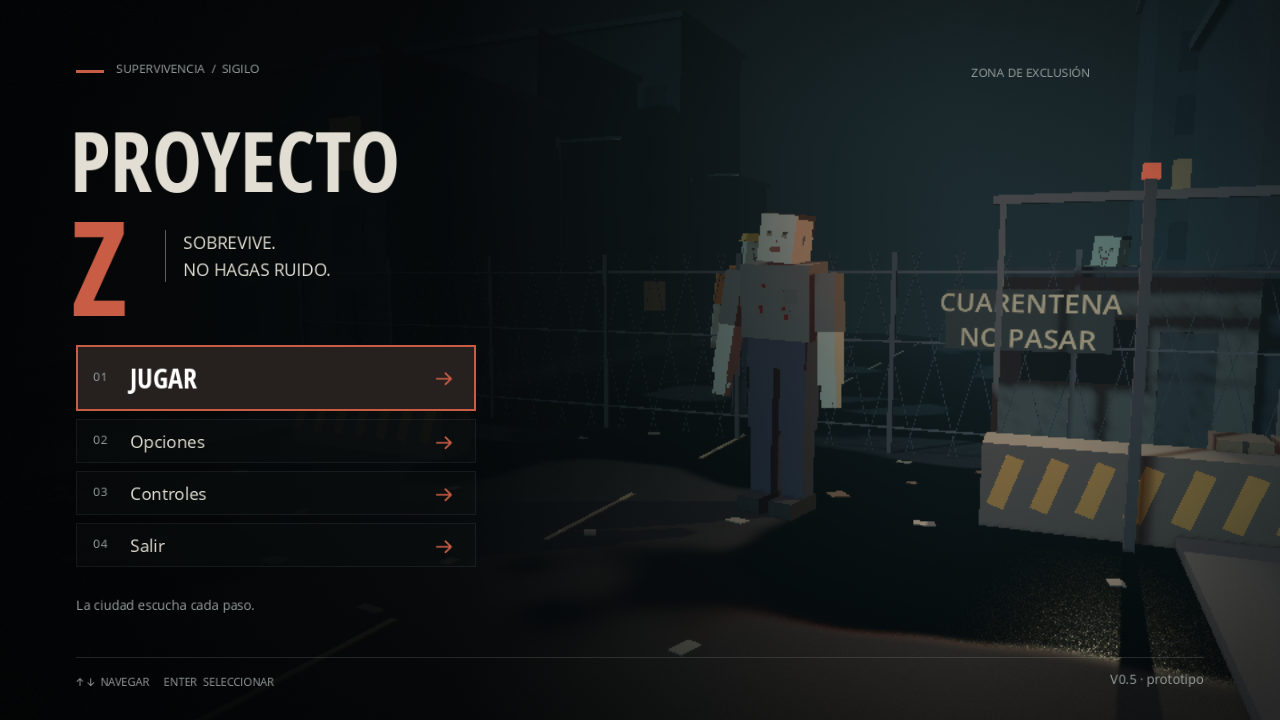
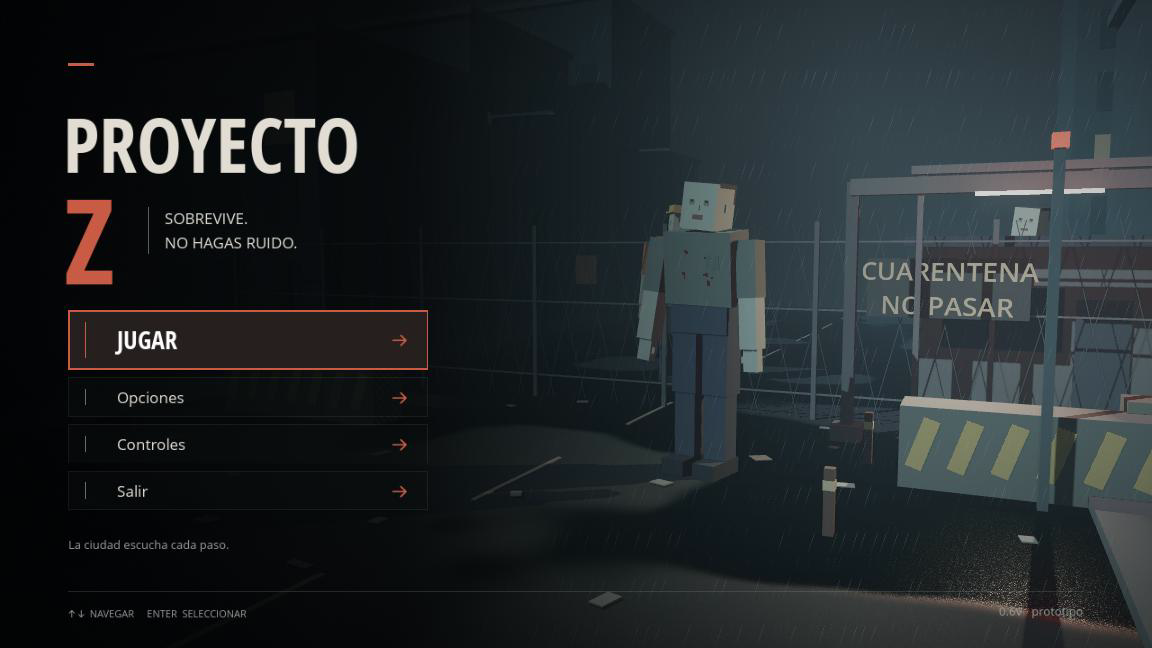
Renovar el puesto de cuarentena y animar las transiciones del menú

diff --git a/docs/MENU_PRINCIPAL.md b/docs/MENU_PRINCIPAL.md
@@ -1,5 +1,7 @@
 > Dirección vigente: [v7, bloques limpios sin repliegues](MODELOS_LIMPIOS_V7.md).
 
+- Menú principal: puesto de cuarentena con luces frías y luces de trabajo cálidas, lluvia en movimiento, cámara con deriva sutil y más detalle en el escenario. La portada y los paneles entran y salen con fundido y desplazamiento.
+
 Versión actual de Proyecto Z: **0.6V**.
 
 > Dirección vigente: [v6, todas las piezas cuadradas](CORRECCION_CUADRADA_V6.md).
@@ -20,8 +22,8 @@ usa `scripts/ui/menu_principal.gd`. No es necesario importar otra escena para ve
 - Escenario nocturno exclusivo: carretera, barreras, alambrada, cartel de cuarentena, niebla y luz roja.
 - Tres rigs decorativos de los zombis existentes, con respiración y movimientos suaves. No ejecutan IA,
   física, navegación, ruido ni combate. No se carga el nivel de pruebas para decorar la portada.
-- Título de dos líneas, acento rojo apagado, navegación numerada, foco visible y descripción por acción.
-- Viñeta y grano sutil estático mediante `atmosfera_menu.gdshader`, sin imágenes ni servicios externos.
+- Título de dos líneas, acento rojo apagado, foco visible y descripción por acción.
+- Lluvia en dos planos, viñeta y grano sutil mediante `atmosfera_menu.gdshader`, sin imágenes ni servicios externos.
 - Fuentes Open Sans incluidas con su licencia Apache 2.0 en `assets/fuentes/`.
 
 ## Funciones y controles

diff --git a/CLAUDE.md b/CLAUDE.md
@@ -1,5 +1,7 @@
 # CLAUDE.md — Proyecto Z (léelo antes de tocar nada)
 
+- Menú principal: puesto de cuarentena con luces frías y luces de trabajo cálidas, lluvia en movimiento, cámara con deriva sutil y más detalle en el escenario. La portada y los paneles entran y salen con fundido y desplazamiento.
+
 - Depuración: corregidas advertencias de GDScript en los scripts del juego y el aviso de audio de motor al terminar pruebas sin ventana.
 
 - Depuración: ambos perfiles de exportación incluyen la clave de ejecución que espera Godot 4.6. Los efectos de audio puntuales se omiten en pruebas sin ventana para evitar avisos de recursos de audio al cerrar.

diff --git a/CAMBIOS.md b/CAMBIOS.md
@@ -1,5 +1,7 @@
 ## 2026-11-17 — Levantarse para correr
 
+- Menú principal: puesto de cuarentena con luces frías y luces de trabajo cálidas, lluvia en movimiento, cámara con deriva sutil y más detalle en el escenario. La portada y los paneles entran y salen con fundido y desplazamiento.
+
 - Depuración: corregidas advertencias de GDScript en los scripts del juego y el aviso de audio de motor al terminar pruebas sin ventana.
 
 - Depuración: ambos perfiles de exportación incluyen la clave de ejecución que espera Godot 4.6. Los efectos de audio puntuales se omiten en pruebas sin ventana para evitar avisos de recursos de audio al cerrar.

diff --git a/docs/MAPA_PROYECTO.md b/docs/MAPA_PROYECTO.md
@@ -1,5 +1,7 @@
 # Mapa de Proyecto Z
 
+- Menú principal: puesto de cuarentena con luces frías y luces de trabajo cálidas, lluvia en movimiento, cámara con deriva sutil y más detalle en el escenario. La portada y los paneles entran y salen con fundido y desplazamiento.
+
 - Depuración: corregidas advertencias de GDScript en los scripts del juego y el aviso de audio de motor al terminar pruebas sin ventana.
 
 - Depuración: ambos perfiles de exportación incluyen la clave de ejecución que espera Godot 4.6. Los efectos de audio puntuales se omiten en pruebas sin ventana para evitar avisos de recursos de audio al cerrar.
